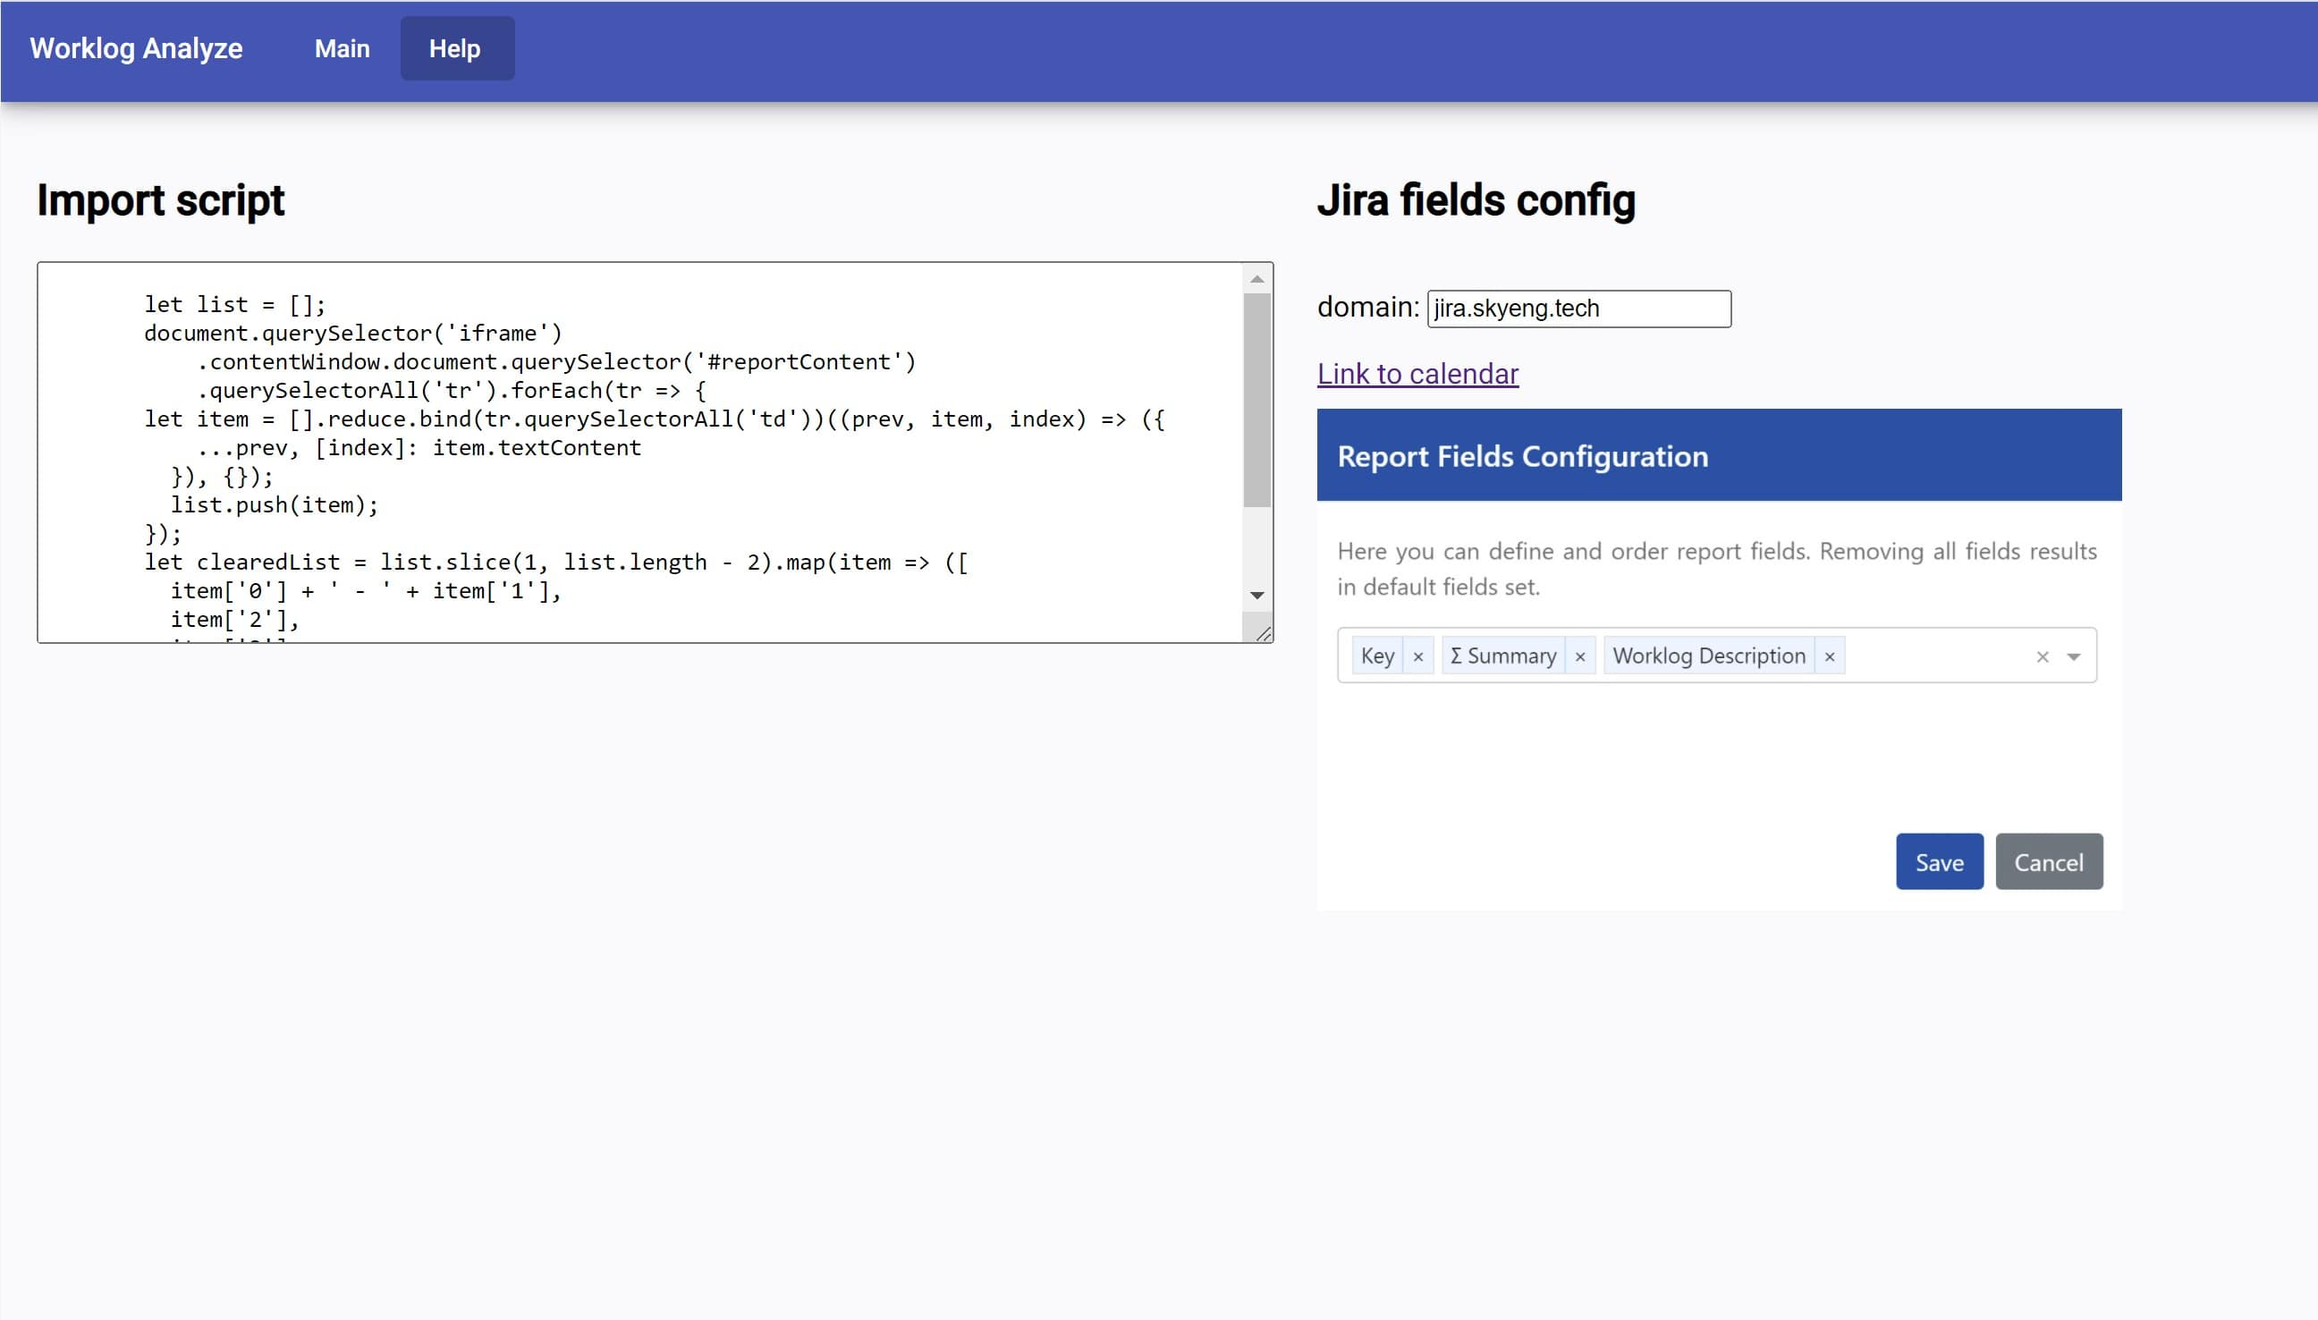
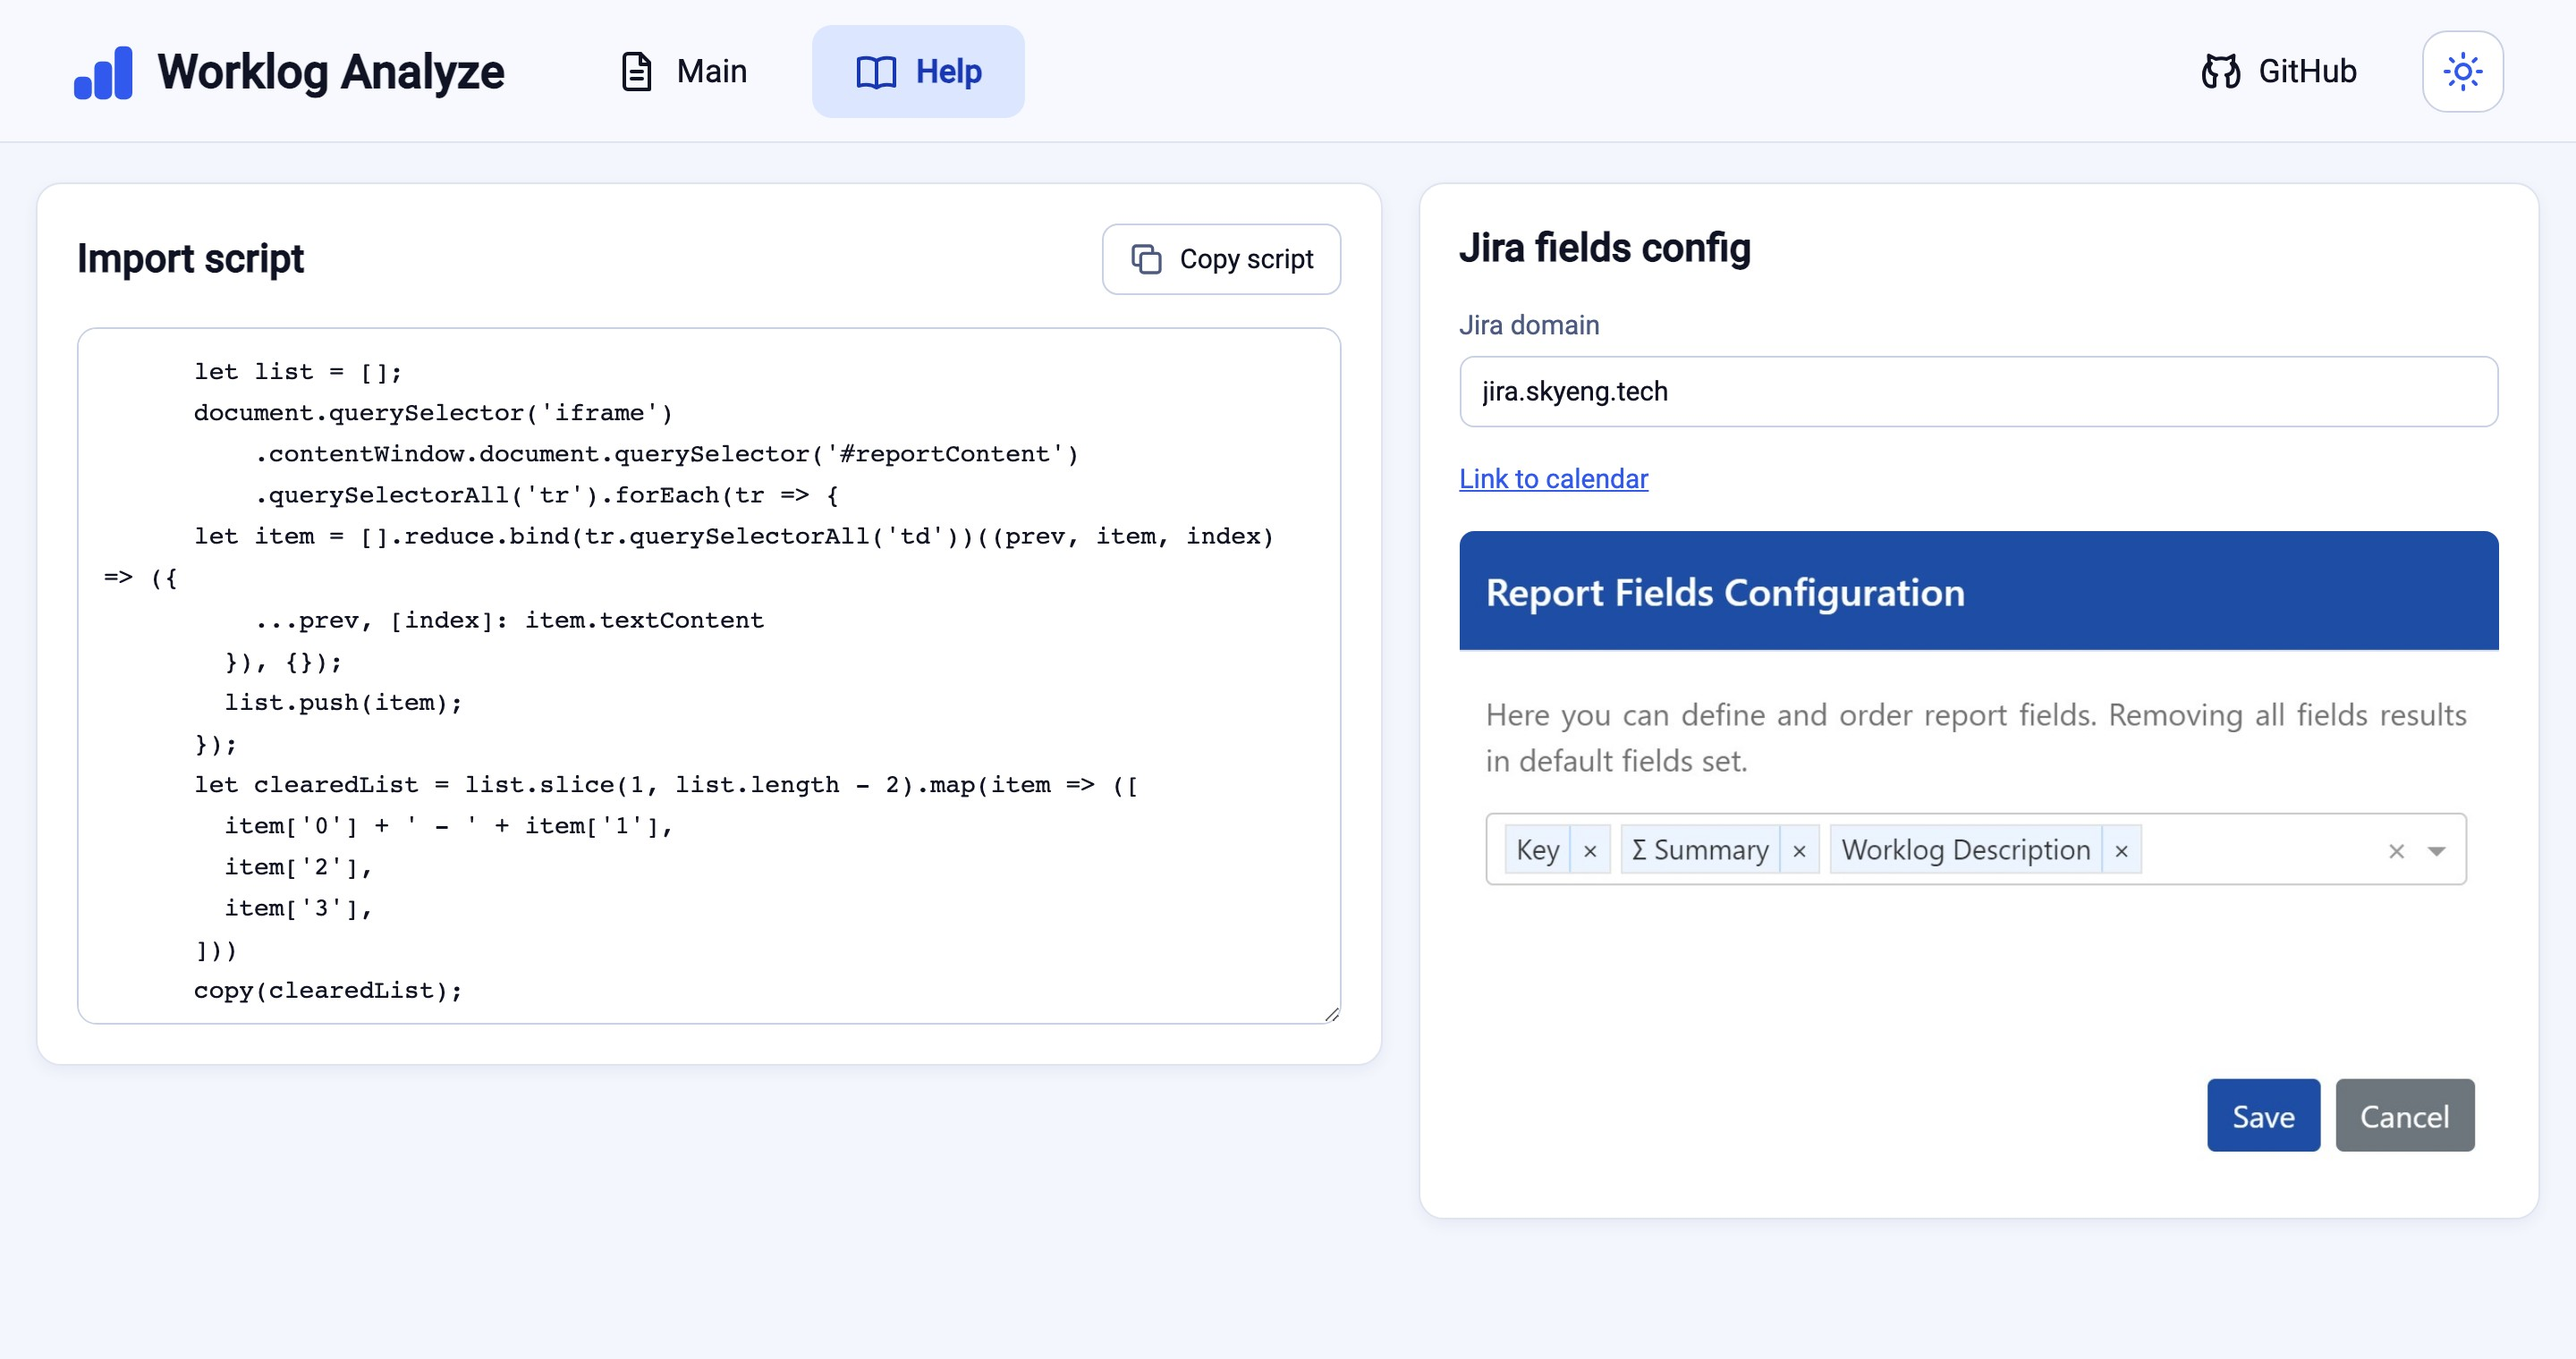
update project worklog-analyze

diff --git a/apps/apilab-main/src/sections/portfolio/model.ts b/apps/apilab-main/src/sections/portfolio/model.ts
@@ -99,12 +99,20 @@ export const PORTFOLIO_PROJECTS: PortfolioProject[] = [
         text: 'Приложение для анализа рабочего времени, экспортированного из Jira.',
       },
       {
-        text: 'Настройка экспорта и импорт данных в нужный формат.',
+        text: 'Настройка экспорта и импорт данных в нужный формат. Светлая тема.',
         image: '/img/projects/details/worklog-analyze/help.jpg',
       },
       {
-        text: 'Анализ данных с настраиваемыми правилами группировки.',
+        text: 'Анализ данных с настраиваемыми правилами группировки. Светлая тема.',
         image: '/img/projects/details/worklog-analyze/main.jpg',
+      },
+      {
+        text: 'Настройка экспорта и импорт данных в нужный формат. Тёмная тема.',
+        image: '/img/projects/details/worklog-analyze/help-dark.jpg',
+      },
+      {
+        text: 'Анализ данных с настраиваемыми правилами группировки. Тёмная тема.',
+        image: '/img/projects/details/worklog-analyze/main-dark.jpg',
       },
     ],
     href: 'https://worklog-analyze.apilab.ru/',
